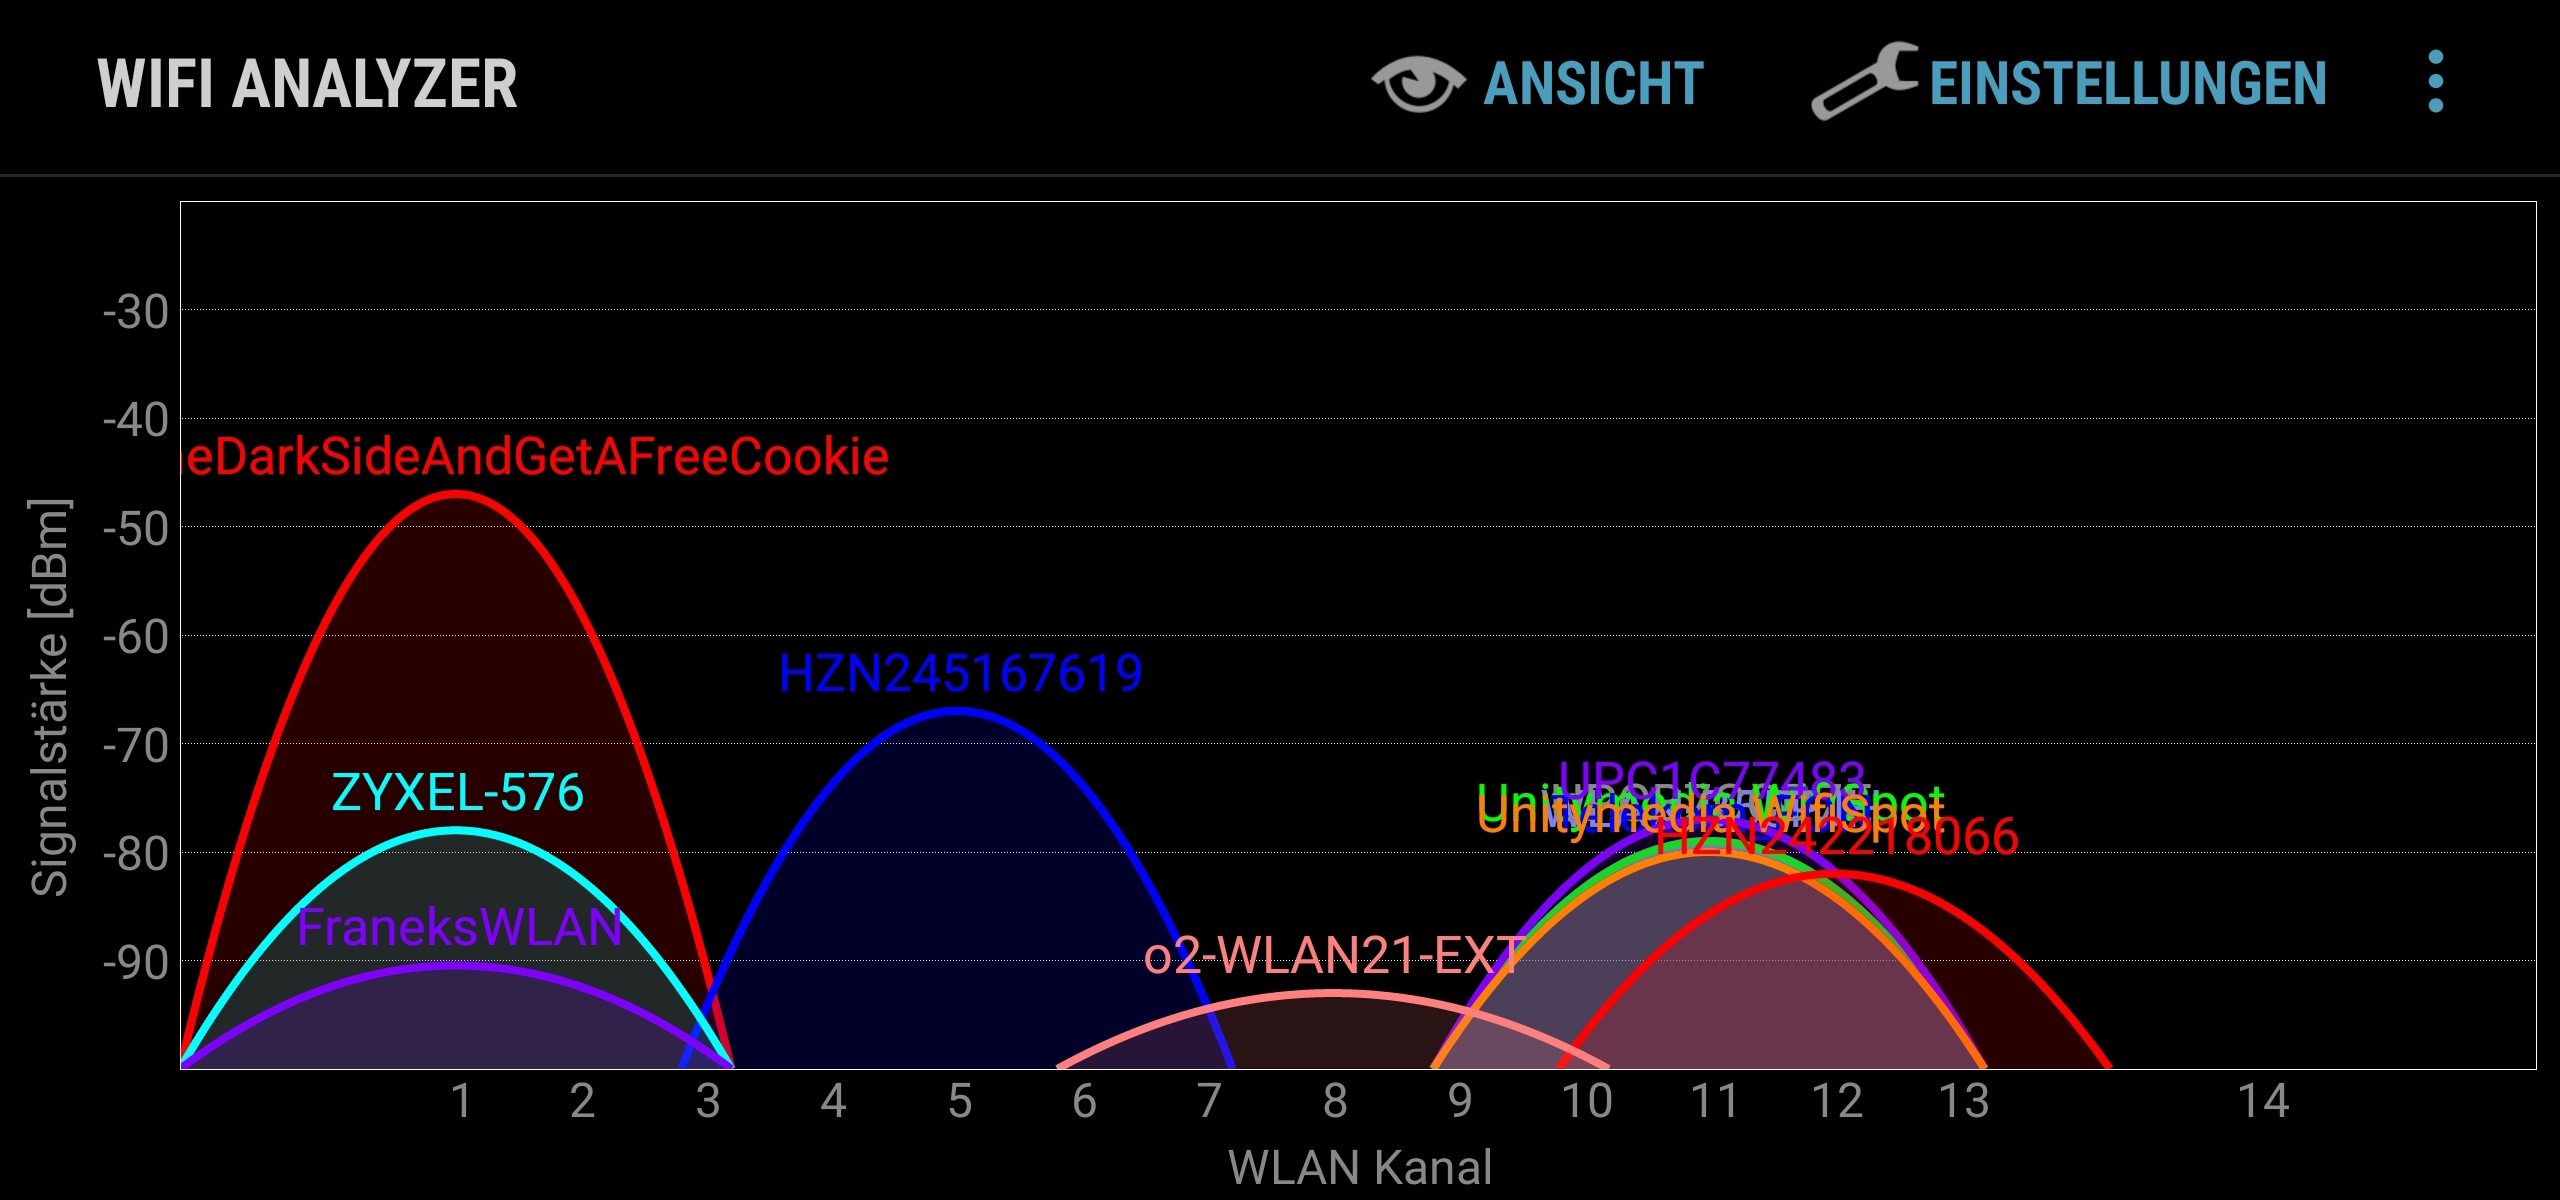
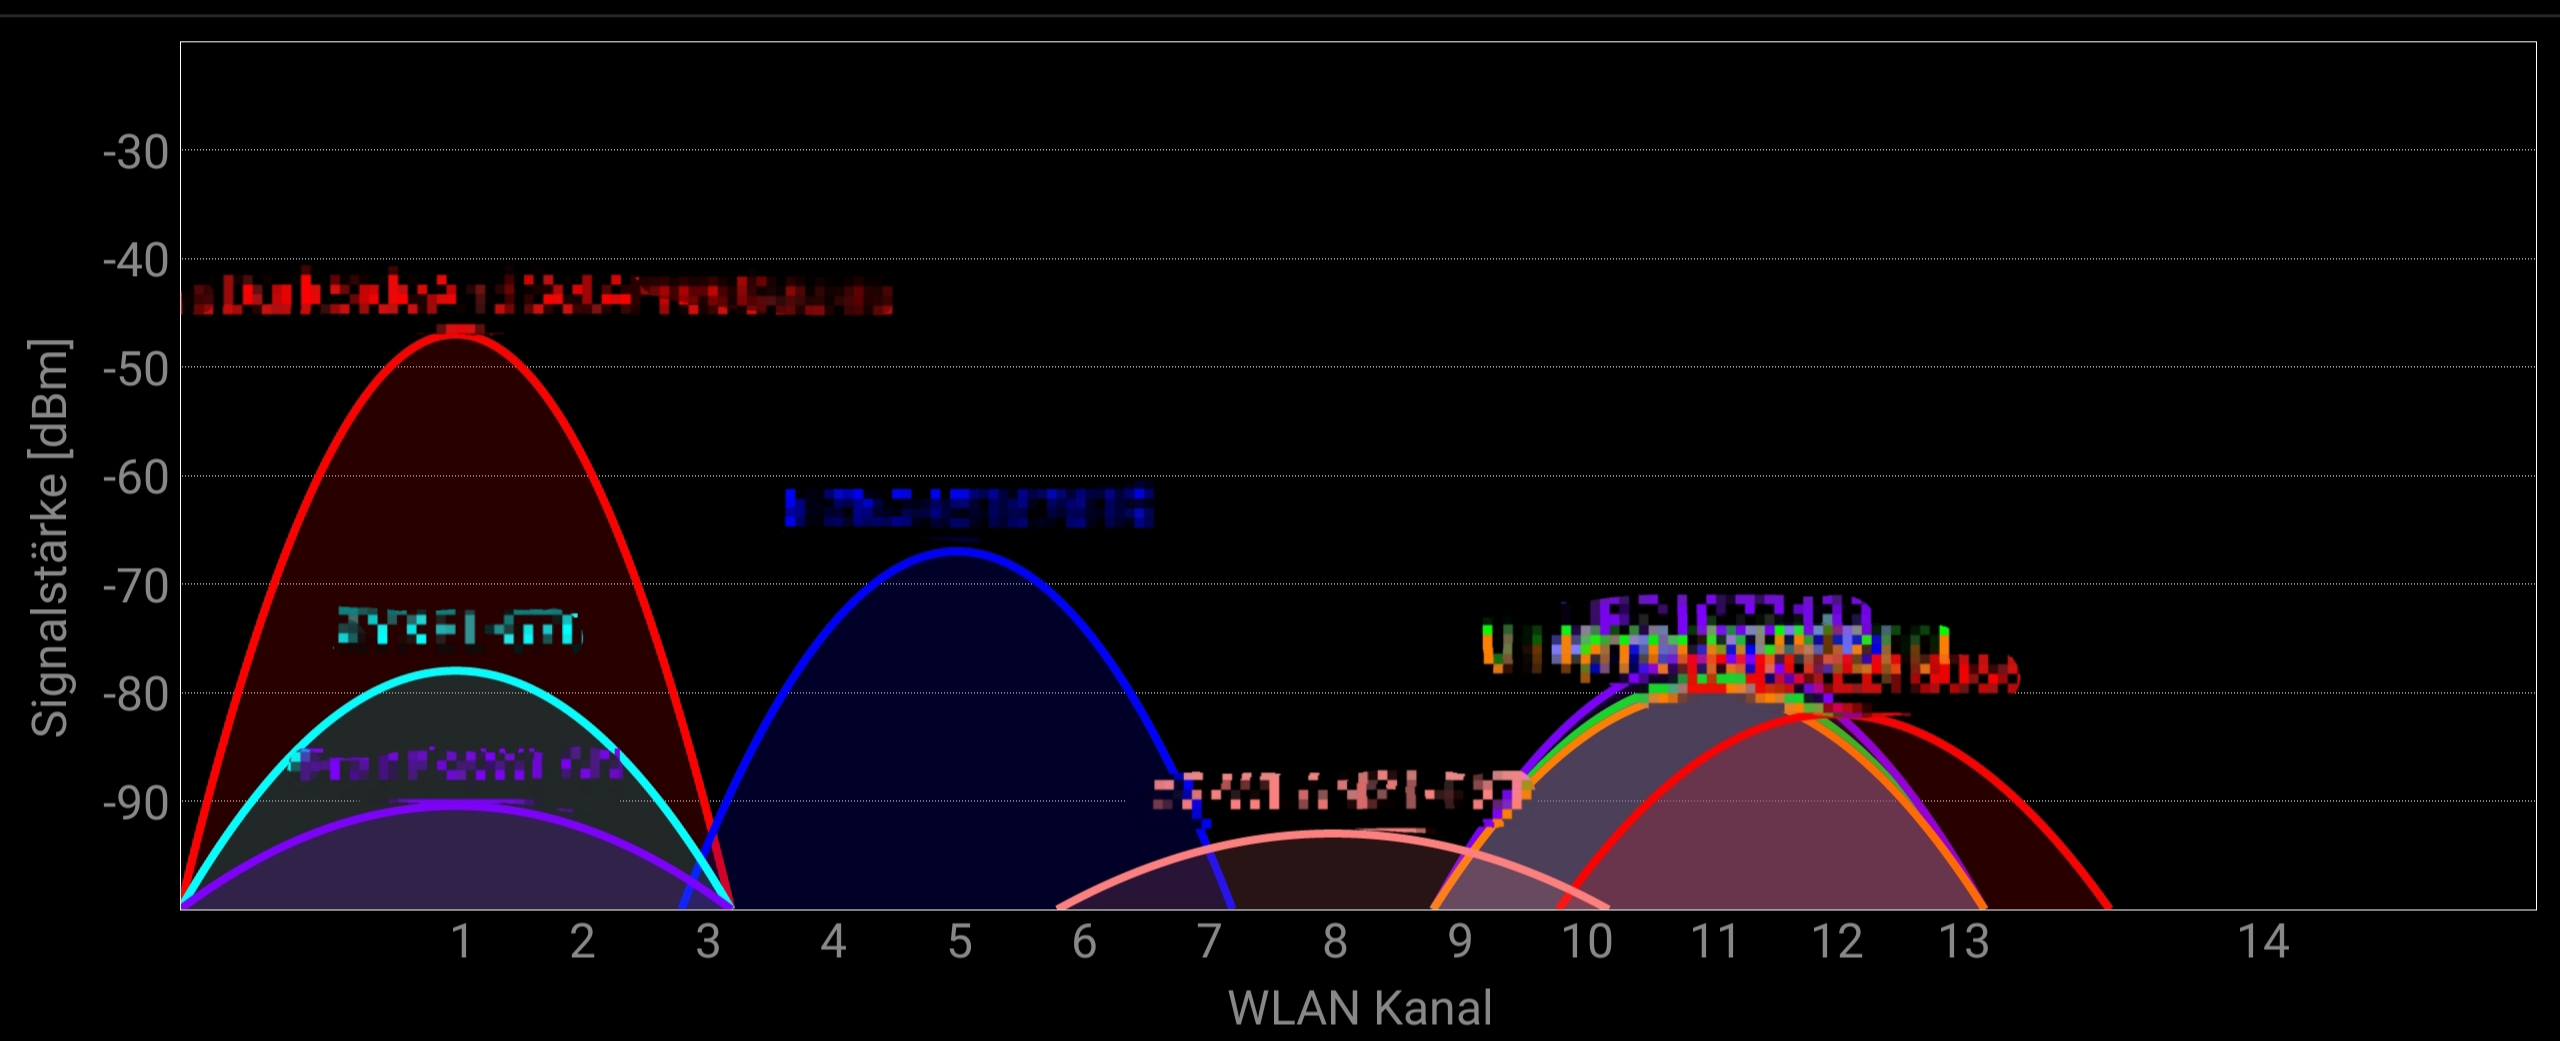
WLAN-Messung geschrieben

diff --git a/bericht/AMR_Projektbericht.tex b/bericht/AMR_Projektbericht.tex
@@ -117,7 +117,7 @@ Zusätzlich werden pro Basisstation mehrere Netzwerke bereitgestellt. Diese unte
 
 \begin{figure}[h]
 	\centering
-	\caption{Messen der Signalstärke mit der Android App Wifi Analyzer}
+	\caption{Messen der Signalstärke mit der Android App Wifi Analyzer (Die Netzwerknamen wurden unkenntlich gemacht)}
 	\includegraphics[width=10cm]{bilder/wifianalyzer}
 	\newline
 	\label{wifiAnalyzer}
@@ -196,17 +196,13 @@ Um die Karte auch nachträglich erstellen zu können haben wir uns dazu entschie
 Die von gmapping bereitgestellten Informationen können in \textit{rviz} als Karte visualisert werden. Hierbei kann ausgewählt werden, welche Topics genau dargestellt werden sollen, da nicht alle laufenden Topics der Kartenerstellung dienen sondern auch beispielsweise Steuerungsfunktionen haben.
 
 \subsection{WLAN-Messung}
-Um die WLAN Abdeckung zu messen sollte die Signalstärke ausgelesen und auf einem neuen Topic kontinuierlich veröffentlicht werden. Dafür wurde ein WLAN-USB-Stick gekauft und am Roboter eingerichtet. Auf der Kommandozeile kann man sich die Signalstärke mithilfe des iwconfig-Befehls ausgeben lassen. Da dies sehr einfach ist konnte schnell ein Knoten geschrieben werden, der das Ergebnis des Linux Kommandos abfängt und auf dem Topic /wlanSignal ausgibt.
+Um die WLAN Abdeckung zu messen sollte die Signalstärke ausgelesen und auf einem neuen Topic kontinuierlich veröffentlicht werden. Dafür wurde ein WLAN-USB-Stick gekauft und am Roboter eingerichtet. Auf der Kommandozeile in Linux kann man sich die Signalstärke mithilfe des iwconfig-Befehls sehr leicht ausgeben lassen. Es wurde über die Betriebsystemoberfläche eine Verbindung mit dem zu überwachenden WLAN-Netzwerk hergestellt. So konnte schnell ein Knoten geschrieben werden, der das Ergebnis des Linux Kommandos abfängt und auf dem Topic /wlanSignal ausgibt. Hierfür wurde eine eigene Nachricht im ROS-Message-Format geschrieben.
 
+Da die Frequenzbänder unterschiedliche Eigenschaften haben wurde entschieden, jeweils eine Messung für das 2,4GHz-Band und das 5GHz-Band zu machen und getrennt auszugeben um später differenzierte Ergebnisse zu erhalten. Die Idee war zwei Netzwerkadapter anzusprechen und jeden über die Betriebssystemkonfiguration in ein separates Band zu hängen. Dies erwies sich aber als schwierig, da dies im WLAN-Standard so nicht vorgesehen ist. Für die neuen Modi, zum Beispiel IEEE 802.11n, müssen die WLAN-Karten auf beiden Bändern senden und empfangen können, da auch Dual-Chanel-Kommunikation möglich ist. Somit existiert keine Möglichkeit über das Betriebssystem ein Netzwerk-Interface ausschließlich auf ein Band zu konfigurieren. Außerdem war es problematisch, dass immer eine Verbindung zum Netzwerk vorhanden sein musste. Dies führte bei einem Wechsel der Basisstation, durch etwaiges Bewegen entlang der Flure, dazu, dass die kurze Aussetzer der Messung in der Messung auftraten. 
 
-Topic /wlanSignal mit eigener Message
-2,4 und 5G getrennt
-erst Linux
-Problem dass Verbindung nötig war
-dann Scanning mit Bibliotek
-Anpassung der Bibiothek nötig
-Topic /wlan
+Um die im Vorherigen Absatz genannten Probleme zu Lösen haben wir unsere Messung auf einen passiven Scanmodus umgestellt. Das bedeutet, dass man feste Verbindung mehr zu einem Netzwerk hat. Sondern Alle WLAN-Basisstationen in Reichweite mit deren Eigenschaften ausliest. Das können auch mehre pro Netzwerk sein. Da dies nicht mehr komfortabel über die Kommandozeile zu Realisieren ist, ohne Performanceverluste hin zunehmen, nutzten wir eine C++-Bibliothek Namens wifi-scan \cite{bmegliWifiScan}. Diese macht es möglich relativ einfach WLAN-Netzwerke auf einer bestimmten Netzwerkschnittstelle zu scannen. Nachdem diese noch geringfügig angepasst war, konnte eine Liste Aller Access-Points in der Umgebung mit deren Eigenschaften (SSID, Signalstärke und Frequenz) ermittelt werden. Diese Liste konnte dann nach der gesuchten SSID gefiltert und die aktuelle und maximale Signalstärke pro Band gefunden werden. Ein kleiner Nachteil dieser Lösung ist, dass der Knoten nun Administrationsrechte benötigt um den Scan durchzuführen. Dies wurde durch die  Abfrage des Root-Passwortes beim Start des Knotens erledigt. 
 
+% Hier kommt noch ein Bild rein wo man den rqt_graph für einen Scan sieht. 
 
 
 \subsection{Nachverarbeitung}
